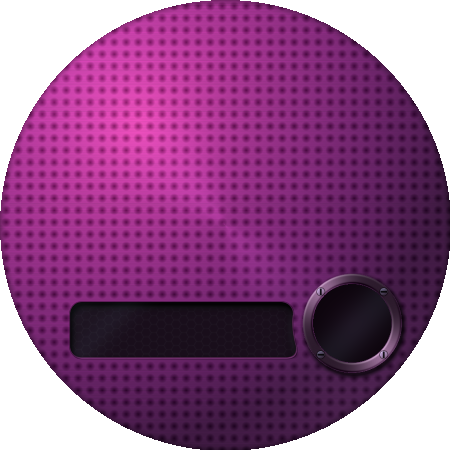
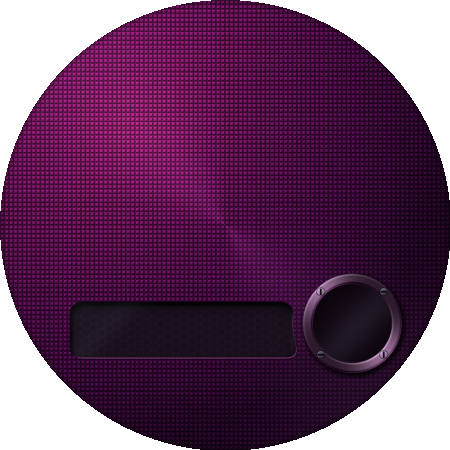
Zoom in Woodland Camo background (zoom factor 2.8) to reduce visual clutter and noise (v3.6)

diff --git a/generate_clean_backgrounds_and_quad_chambers.py b/generate_clean_backgrounds_and_quad_chambers.py
@@ -597,7 +597,7 @@ if not os.path.exists(src_camo_path):
 
 camo_src = Image.open(src_camo_path).convert("RGB")
 w_src, h_src = camo_src.size
-zoom_factor = 1.8
+zoom_factor = 2.8
 cw, ch = w_src / zoom_factor, h_src / zoom_factor
 x1 = (w_src - cw) / 2.0
 y1 = (h_src - ch) / 2.0
